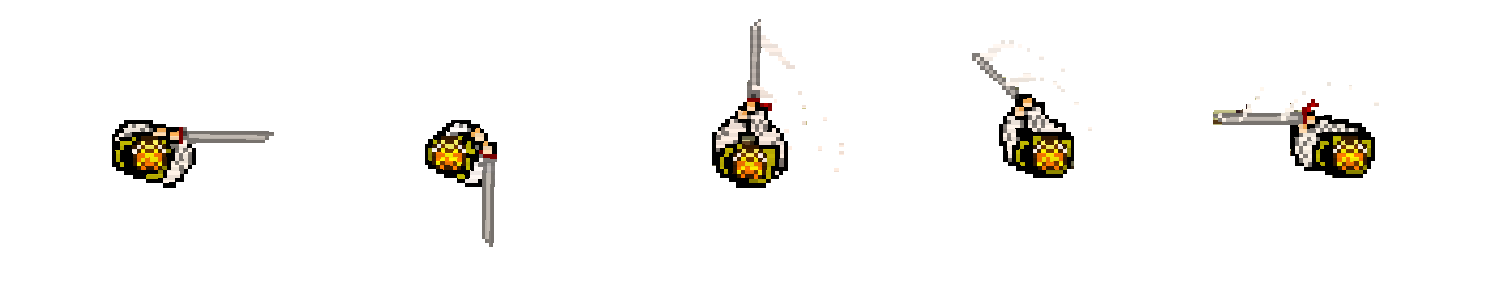
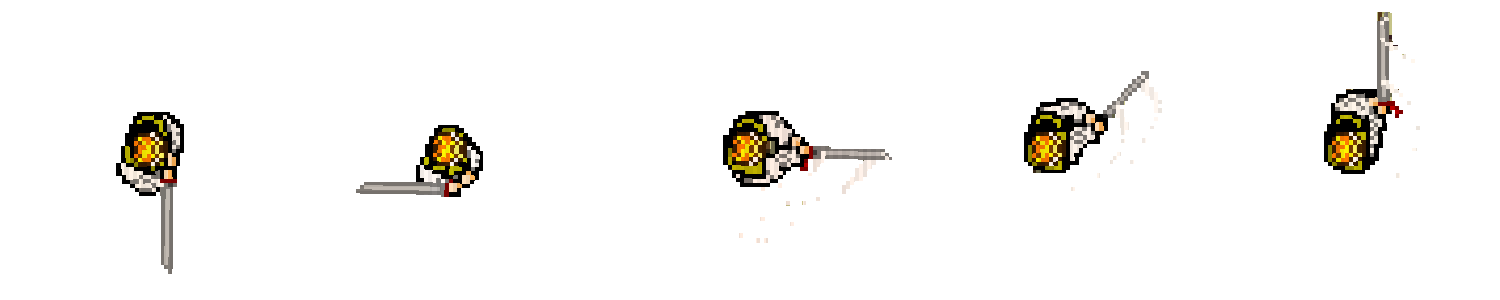
Entities can now check if they can see another entity.

diff --git a/lib/game/entity-extended.js b/lib/game/entity-extended.js
@@ -1,0 +1,60 @@
+ig.module(
+  'game.entity-extended'
+)
+.requires(
+  'impact.entity',
+  'game.vector'
+)
+.defines(function(){ "use strict";
+
+ig.Entity.inject({
+  draw: function() {
+    if (this.currentAnim && typeof this.angle !== 'undefined')
+      this.currentAnim.angle = this.angle;
+
+    this.parent();
+  },
+
+  update: function() {
+    delete this._forwardVector;
+    this.parent();
+  },
+
+  getForwardVector: function() {
+    if (this._forwardVector == null) {
+      if (typeof this.angle !== 'undefined') {
+        this._forwardVector = {
+          x: Math.cos(this.angle),
+          y: Math.sin(this.angle)
+        }
+      }
+    }
+    return this._forwardVector;
+  },
+
+
+  // Returns whether the other entity is within the field of view.
+  // target  : The entity you want to see if you're looking at.
+  // fovAngle: Tthe full angle of the fov, meaning that 60 degrees
+  //           covers 30 degrees on EACH side of the entity.
+  // maxDistance: How far this entity can see ahead of itself.
+  //              Leave blank if you want infinite distance.
+  canSee: function(target, fovAngle, maxDistance) {
+    var toTargetVec = { 
+      x: target.pos.x - this.pos.x,
+      y: target.pos.y - this.pos.y
+    }
+    if (typeof maxDistance != 'undefined' && maxDistance != null && ig.Vector.magnitude(toTargetVec) > maxDistance) {
+      return false;
+    }
+    var angle = ig.Vector.angleBetween(this.getForwardVector(), toTargetVec);
+    if (angle < fovAngle * 0.5) {
+      if (!ig.game.collisionMap.findIntersection(this.pos.x + this.size.x * 0.5, this.pos.y + this.size.y * 0.5, target.pos.x + target.size.x * 0.5, target.pos.y + target.size.y * 0.5)) {
+        return true;
+      }
+    }
+    return false;
+  }
+});
+
+});

diff --git a/lib/game/entities/player.js b/lib/game/entities/player.js
@@ -21,7 +21,6 @@ EntityPlayer = ig.Entity.extend({
 	type: ig.Entity.TYPE.A, // Player friendly group
 	checkAgainst: ig.Entity.TYPE.NONE,
 	collides: ig.Entity.COLLIDES.PASSIVE,
-	animSheet: new ig.AnimationSheet( 'media/playersprite.png', 64, 118 ),
 	animSheet: new ig.AnimationSheet( 'media/player.png', 300, 300 ),
 	sfxHurt: new ig.Sound( 'media/sounds/hurt.*' ),
 	sfxJump: new ig.Sound( 'media/sounds/jump.*' ),
@@ -89,30 +88,22 @@ EntityPlayer = ig.Entity.extend({
 		}
 
 		if (Math.abs(rotX) > 0.5 || Math.abs(rotY) > 0.5)
-      this.angle = Math.atan2(rotX, -rotY);
-
-		// TODO: Decouple the animation from the angle.
-		// You shouldn't have to transfer the angle over when you change anim
-		// Also, make it so you need to wait for the animation to complete
+      this.angle = Math.atan2(rotY, rotX);
 
 		if (((ig.input.pressed('attack') && this.mainPlayer) || ig.gamepadInput.pressed(this.controllerNumber, ig.BUTTON.RIGHT_BUTTON) && !this.isAttacking)) {
 
 			this.isAttacking = true;
 
 			var flip = this.currentAnim.flip;
-			var angle = this.currentAnim.angle;
 			this.currentAnim = this.anims.sword.rewind();
-			this.currentAnim.angle = angle;
 			this.currentAnim.flip = flip;
 
 			this.currentAnim.onComplete = function() {
 				this.isAttacking = false;
-				var angle = this.currentAnim.angle;
-				var flip = this.currentAnim.flip.x;
+				var flip = this.currentAnim.flip.y;
 
 				this.currentAnim = this.anims.idle.rewind();
-				this.currentAnim.angle = angle;
-				this.currentAnim.flip.x = !flip;
+				this.currentAnim.flip.y = !flip;
 			}.bind(this);
 		}
 
@@ -186,7 +177,6 @@ EntityPlayer = ig.Entity.extend({
 		}
 
 		//this.currentAnim.flip.x = this.flip;
-		this.currentAnim.angle = this.angle;
 
 		// Move!
 		this.parent();

diff --git a/lib/game/entities/enemy.js b/lib/game/entities/enemy.js
@@ -7,8 +7,8 @@ ig.module(
 .defines(function(){
 
 EntityEnemy = ig.Entity.extend({
-  size: {x: 118, y: 64},
-  offset: {x: 0, y: 0},
+  size: {x: 50, y: 50},
+  offset: {x: 0, y: 24},
   maxVel: {x: 100000, y: 100000},
   friction: {x: 0, y: 0},
 
@@ -17,12 +17,15 @@ EntityEnemy = ig.Entity.extend({
   collides: ig.Entity.COLLIDES.PASSIVE,
 
   health: 1,
+  fovAngle: 90,
+  angle: 0,
 
+  target: null,
 
   speed: 400,
   flip: false,
 
-  animSheet: new ig.AnimationSheet( 'media/enemy.png', 118, 64 ),
+  animSheet: new ig.AnimationSheet( 'media/enemy.png', 64, 118 ),
   sfxDie: new ig.Sound( 'media/sounds/blob-die.*' ),
 
 
@@ -35,10 +38,11 @@ EntityEnemy = ig.Entity.extend({
 
 
   update: function() {
-
-    this.playerLos = ig.game.collisionMap.findIntersection(this.pos.x + this.size.x * 0.5, this.pos.y + this.size.y * 0.5, ig.players[0].pos.x + ig.players[0].size.x * 0.5, ig.players[0].pos.y + ig.players[0].size.y * 0.5);
-    if (!this.playerLos) {
-      this.getPath(ig.players[0].pos.x, ig.players[0].pos.y, true);
+    if (this.canSee(ig.players[0], this.fovAngle)) {
+      this.target = ig.players[0];
+    }
+    if (this.target) {
+      this.getPath(this.target.pos.x, this.target.pos.y, true);
     }
     this.followPath(this.speed);
     this.parent();

diff --git a/lib/game/vector.js b/lib/game/vector.js
@@ -1,0 +1,31 @@
+ig.module(
+  'game.vector'
+)
+.requires(
+  'impact.entity'
+)
+.defines(function(){ "use strict";
+
+  ig.Vector = ({
+    magnitude: function(vec) {
+      return Math.sqrt(vec.x * vec.x + vec.y * vec.y);
+    }, 
+    normalize: function(vec) {
+      var magnitude = ig.Vector.magnitude(vec);
+      vec.x /= magnitude;
+      vec.y /= magnitude;
+    },
+
+    dotProduct: function(vec0, vec1) {
+      return vec0.x * vec1.x + vec0.y * vec1.y;
+    },
+
+    angleBetween: function(vec0, vec1) {
+      ig.Vector.normalize(vec0);
+      ig.Vector.normalize(vec1);
+
+      return Math.acos(ig.Vector.dotProduct(vec0, vec1)) * 180 / Math.PI;
+    }
+  });
+
+});

diff --git a/lib/plugins/astar-for-entities.js b/lib/plugins/astar-for-entities.js
@@ -756,8 +756,8 @@ ig.Entity.inject({
             this.vel.y = distanceY / distanceLenght * speed;
 
             // Update the animation angle
-            this.headingAngle = Math.atan2(this.vel.y, this.vel.x) + Math.PI / 2;
-            this.currentAnim.angle = this.headingAngle;
+            this.headingAngle = Math.atan2(this.vel.y, this.vel.x);
+            this.angle = this.headingAngle;
             // 1 4 6
             // 2 0 7
             // 3 5 8

diff --git a/lib/game/main.js b/lib/game/main.js
@@ -16,6 +16,7 @@ ig.module(
   'plugins.gamepad-debug',
 
   'game.animation-extended',
+  'game.entity-extended',
 
   'game.entities.player',
 
